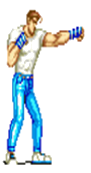
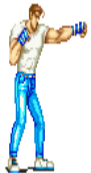
corrijo movimiento de golpe

diff --git a/main.py b/main.py
@@ -31,9 +31,10 @@ class Peleador(pygame.sprite.Sprite):
 
         self.mover(vx, vy)
         self.imagen=self.imagenes[self.imagenActual]
-        superficie.blit(self.imagen, self.rect)
 
-        self.pegarGolpe(spacesigueapretada,superficie)
+
+        if not(self.pegarGolpe(spacesigueapretada,superficie)): #sino pega imprime al chabon caminando
+            superficie.blit(self.imagen, self.rect)
 
     def nextimage(self):#cambio de imagen:
         self.imagenActual += 1
